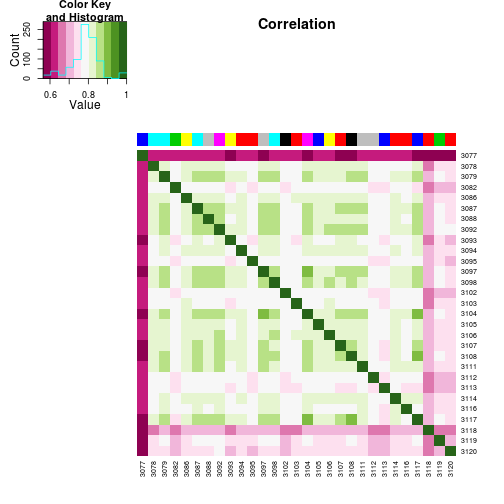
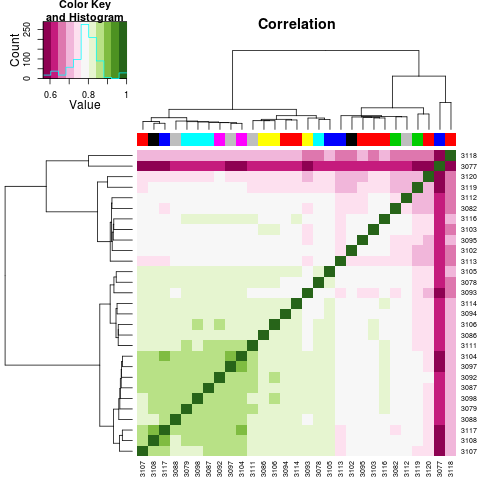
Correlation heatmap revisition

diff --git a/Ann/Ann_Methy_limma.html b/Ann/Ann_Methy_limma.html
@@ -341,7 +341,7 @@ print(xt, type = &quot;html&quot;, include.rownames = FALSE)
 
 <!-- html table generated in R 3.0.1 by xtable 1.7-1 package -->
 
-<!-- Fri Jul 19 13:00:31 2013 -->
+<!-- Fri Jul 19 13:31:07 2013 -->
 
 <TABLE border=1>
 <TR> <TH> logFC </TH> <TH> t </TH> <TH> P.Value </TH> <TH> adj.P.Val </TH> <TH> B </TH> <TH> q_value </TH> <TH> Chr </TH> <TH> Start </TH> <TH> End </TH> <TH> Strand </TH> <TH> RefSeq_ID </TH> <TH> Gene </TH>  </TR>
@@ -402,7 +402,7 @@ print(xt, type = &quot;html&quot;, include.rownames = FALSE)
 
 <!-- html table generated in R 3.0.1 by xtable 1.7-1 package -->
 
-<!-- Fri Jul 19 13:00:31 2013 -->
+<!-- Fri Jul 19 13:31:08 2013 -->
 
 <TABLE border=1>
 <TR> <TH> logFC </TH> <TH> t </TH> <TH> P.Value </TH> <TH> adj.P.Val </TH> <TH> B </TH> <TH> q_value </TH> <TH> Chr </TH> <TH> Start </TH> <TH> End </TH> <TH> Strand </TH> <TH> RefSeq_ID </TH> <TH> Gene </TH>  </TR>
@@ -447,7 +447,7 @@ print(xt, type = &quot;html&quot;, include.rownames = FALSE)
 
 <!-- html table generated in R 3.0.1 by xtable 1.7-1 package -->
 
-<!-- Fri Jul 19 13:00:31 2013 -->
+<!-- Fri Jul 19 13:31:08 2013 -->
 
 <TABLE border=1>
 <TR> <TH> logFC </TH> <TH> t </TH> <TH> P.Value </TH> <TH> adj.P.Val </TH> <TH> B </TH> <TH> q_value </TH> <TH> Chr </TH> <TH> Start </TH> <TH> End </TH> <TH> Strand </TH> <TH> RefSeq_ID </TH> <TH> Gene </TH>  </TR>
@@ -477,20 +477,13 @@ heatmap.2(MvalueM, Rowv = dd, col = color.palette, breaks = seq(-2, 2, length.ou
 <h2>The signal of an individual &ldquo;3077&rdquo; is mostly different from other samples.</h2>
 
 <pre><code class="r">SamplesCor &lt;- cor(Mvalue)
-# hc &lt;- hclust(dist(SamplesCor), method=&#39;ward&#39;) dd &lt;- as.dendrogram(hc)
+hc &lt;- hclust(dist(SamplesCor), method = &quot;ward&quot;)
+dd &lt;- as.dendrogram(hc)
 
 ## color bar on the top is for Units
-heatmap.2(SamplesCor, Rowv = NULL, Colv = NULL, col = color.palette, trace = &quot;none&quot;, 
+heatmap.2(SamplesCor, Rowv = dd, Colv = dd, col = color.palette, trace = &quot;none&quot;, 
     ColSideColors = ColSideColors, na.color = &quot;grey50&quot;, labRow = sampleNum, 
     labCol = sampleNum, main = &quot;Correlation&quot;)
-</code></pre>
-
-<pre><code>## Warning: Discrepancy: Rowv is FALSE, while dendrogram is `both&#39;. Omitting
-## row dendogram.
-</code></pre>
-
-<pre><code>## Warning: Discrepancy: Colv is FALSE, while dendrogram is `none&#39;. Omitting
-## column dendogram.
 </code></pre>
 
 <p><img src="figure/correlation%20among%20individuals.png" alt="plot of chunk correlation among individuals"/> </p>

diff --git a/Ann/Ann_Methy_limma.md b/Ann/Ann_Methy_limma.md
@@ -187,7 +187,7 @@ print(xt, type = "html", include.rownames = FALSE)
 ```
 
 <!-- html table generated in R 3.0.1 by xtable 1.7-1 package -->
-<!-- Fri Jul 19 13:00:31 2013 -->
+<!-- Fri Jul 19 13:31:07 2013 -->
 <TABLE border=1>
 <TR> <TH> logFC </TH> <TH> t </TH> <TH> P.Value </TH> <TH> adj.P.Val </TH> <TH> B </TH> <TH> q_value </TH> <TH> Chr </TH> <TH> Start </TH> <TH> End </TH> <TH> Strand </TH> <TH> RefSeq_ID </TH> <TH> Gene </TH>  </TR>
   <TR> <TD align="right"> -3.18 </TD> <TD align="right"> -8.52 </TD> <TD align="right"> 0.00 </TD> <TD align="right"> 0.00 </TD> <TD align="right"> 6.31 </TD> <TD align="right"> 0.00 </TD> <TD> chr16 </TD> <TD align="right"> 89029943 </TD> <TD align="right"> 89033943 </TD> <TD> + </TD> <TD> NM_010672 </TD> <TD> Krtap6-1 </TD> </TR>
@@ -250,7 +250,7 @@ print(xt, type = "html", include.rownames = FALSE)
 ```
 
 <!-- html table generated in R 3.0.1 by xtable 1.7-1 package -->
-<!-- Fri Jul 19 13:00:31 2013 -->
+<!-- Fri Jul 19 13:31:08 2013 -->
 <TABLE border=1>
 <TR> <TH> logFC </TH> <TH> t </TH> <TH> P.Value </TH> <TH> adj.P.Val </TH> <TH> B </TH> <TH> q_value </TH> <TH> Chr </TH> <TH> Start </TH> <TH> End </TH> <TH> Strand </TH> <TH> RefSeq_ID </TH> <TH> Gene </TH>  </TR>
   <TR> <TD align="right"> -7.28 </TD> <TD align="right"> -8.77 </TD> <TD align="right"> 0.00 </TD> <TD align="right"> 0.00 </TD> <TD align="right"> 4.21 </TD> <TD align="right"> 0.00 </TD> <TD> chr11 </TD> <TD align="right"> 60266118 </TD> <TD align="right"> 60270118 </TD> <TD> + </TD> <TD> NM_021354 </TD> <TD> Drg2 </TD> </TR>
@@ -297,7 +297,7 @@ print(xt, type = "html", include.rownames = FALSE)
 ```
 
 <!-- html table generated in R 3.0.1 by xtable 1.7-1 package -->
-<!-- Fri Jul 19 13:00:31 2013 -->
+<!-- Fri Jul 19 13:31:08 2013 -->
 <TABLE border=1>
 <TR> <TH> logFC </TH> <TH> t </TH> <TH> P.Value </TH> <TH> adj.P.Val </TH> <TH> B </TH> <TH> q_value </TH> <TH> Chr </TH> <TH> Start </TH> <TH> End </TH> <TH> Strand </TH> <TH> RefSeq_ID </TH> <TH> Gene </TH>  </TR>
   <TR> <TD align="right"> 2.69 </TD> <TD align="right"> 5.34 </TD> <TD align="right"> 0.00 </TD> <TD align="right"> 0.59 </TD> <TD align="right"> -4.38 </TD> <TD align="right"> 0.59 </TD> <TD> chr17 </TD> <TD align="right"> 33820403 </TD> <TD align="right"> 33824403 </TD> <TD> - </TD> <TD> NM_029804 </TD> <TD> Hnrnpm </TD> </TR>
@@ -328,22 +328,13 @@ heatmap.2(MvalueM, Rowv = dd, col = color.palette, breaks = seq(-2, 2, length.ou
 
 ```r
 SamplesCor <- cor(Mvalue)
-# hc <- hclust(dist(SamplesCor), method='ward') dd <- as.dendrogram(hc)
+hc <- hclust(dist(SamplesCor), method = "ward")
+dd <- as.dendrogram(hc)
 
 ## color bar on the top is for Units
-heatmap.2(SamplesCor, Rowv = NULL, Colv = NULL, col = color.palette, trace = "none", 
+heatmap.2(SamplesCor, Rowv = dd, Colv = dd, col = color.palette, trace = "none", 
     ColSideColors = ColSideColors, na.color = "grey50", labRow = sampleNum, 
     labCol = sampleNum, main = "Correlation")
-```
-
-```
-## Warning: Discrepancy: Rowv is FALSE, while dendrogram is `both'. Omitting
-## row dendogram.
-```
-
-```
-## Warning: Discrepancy: Colv is FALSE, while dendrogram is `none'. Omitting
-## column dendogram.
 ```
 
 ![plot of chunk correlation among individuals](figure/correlation among individuals.png) 
